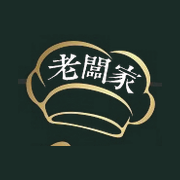
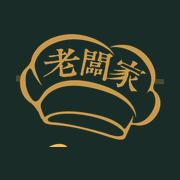
圖示改用黑白版重製（清晰 2.5 倍），補上蔬食湯品照
老闆家提供的黑白版 logo 是 PNG 但沒有去背（alpha 全為 255、白底），
所以不能直接用。真正的價值在解析度：1722x906，是深色版 658x349 的 2.6 倍。

而且它是純黑線稿配白底，可以直接把「有多黑」當成「有多不透明」——
白底自動全透明、灰色盤子線自動變淡、邊緣抗鋸齒自動平滑。
這是彩色版做不到的（彩色版得靠比對背景色，邊緣較毛）。

由此切出的廚師帽是 375x286，先前彩色版只有 148x115 —— 也就是說
App 圖示一直是被放大的模糊版。三個圖示檔全部重製：
favicon.ico / favicon-32.png / apple-touch-icon.png。

老闆家拍板：圖示換金色版、網頁上的 logo 維持彩色。
所以頁首與品牌故事的 logo-mark.png 未更動。
金色完整版存為 logo-金色線稿版.png 備用。

另補兩張蔬食湯品照，純淨蔬食分類補上內文小圖（南瓜濃湯），
至此六個分類的大圖與內文小圖全部到齊。
法式蘑菇濃湯先留著備用。

實測：三個圖示 HTTP 200；六個分類內文小圖齊全；零破圖、零佔位框、無橫向溢出。

Changed region(s): [[0.0833, 0.1667, 0.9167, 0.7778], [0.2778, 0.7778, 0.3889, 0.8333]]

diff --git a/index.html b/index.html
@@ -415,6 +415,10 @@
 
     <!-- 純淨蔬食 -->
     <h3 class="cat-title" id="cat-3">純淨蔬食<a class="cat-back" href="#categories">↑ 回分類</a></h3>
+    <figure class="cat-photo">
+      <img src="images/南瓜濃湯.jpg" alt="老闆家香甜南瓜濃湯實拍" loading="lazy" width="1000" height="1000">
+      <figcaption>香甜南瓜濃湯，五辛素可食</figcaption>
+    </figure>
     <div class="menu-list">
       <div class="menu-item">
         <span class="item-name">素麻婆醬</span>
